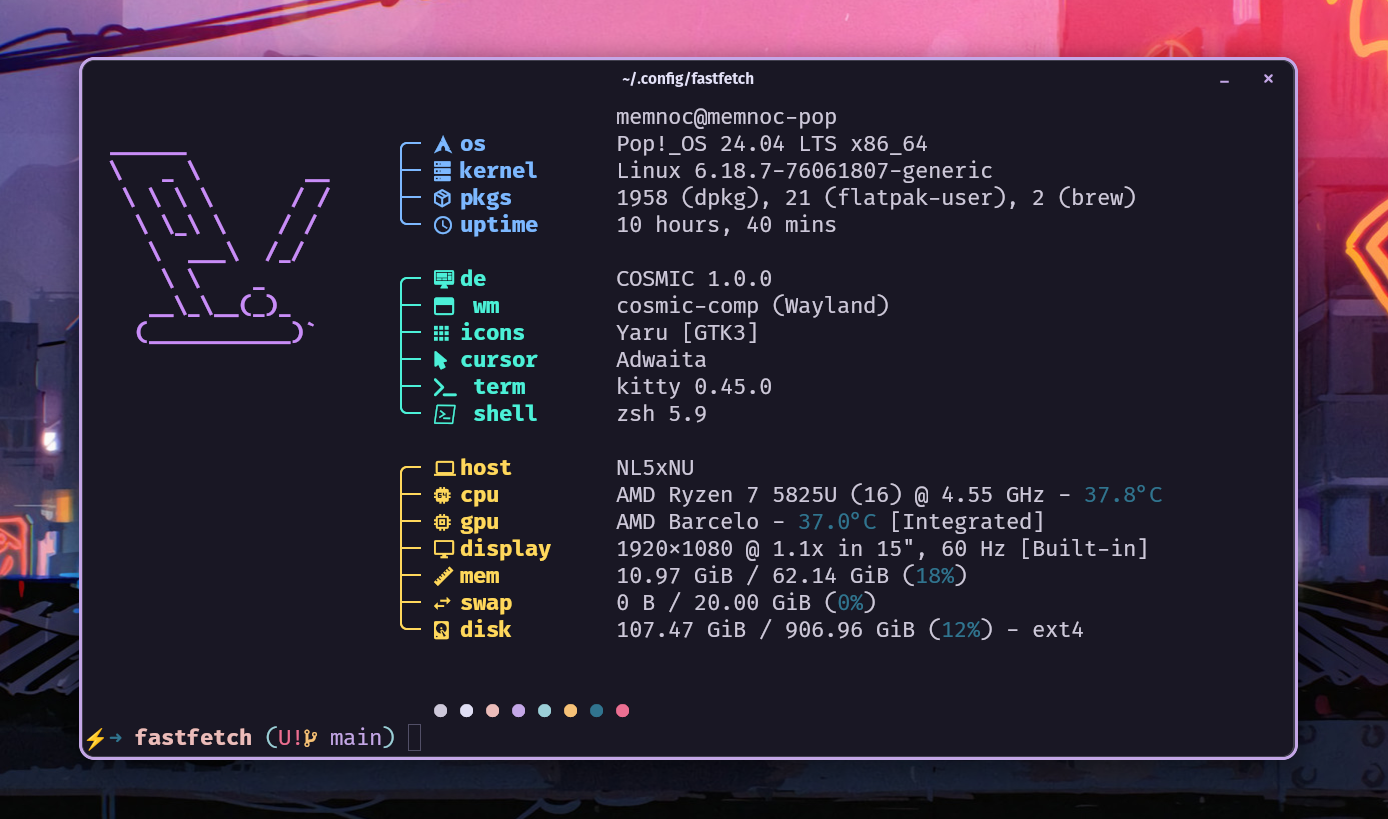
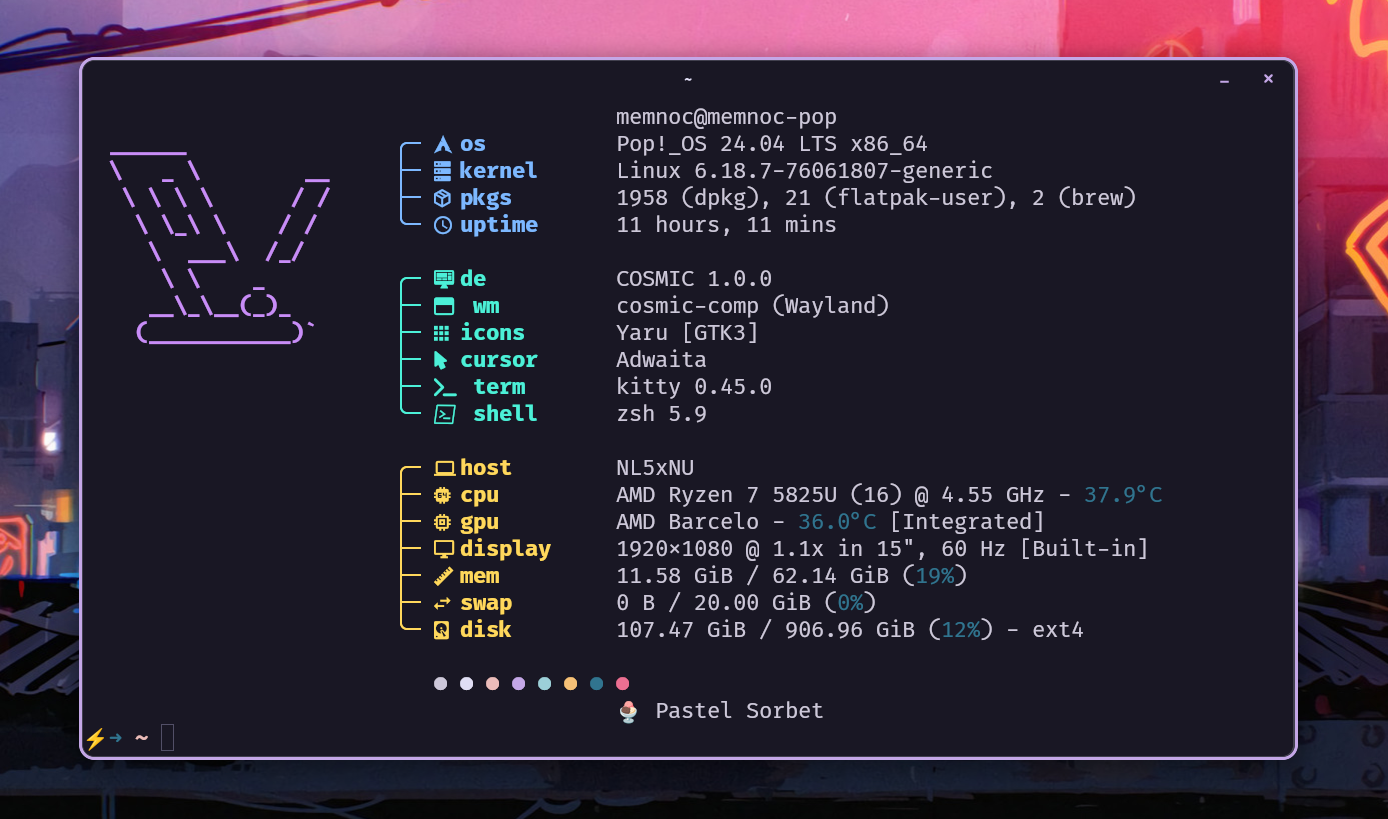
new screenshot and readme

diff --git a/README.md b/README.md
@@ -1,17 +1,73 @@
-# fastfetch config
+<div align="center">
 
-Minimal fastfetch configuration with tree-style grouped modules, Nerd Font icons, and color-coded sections.
+# 🍨 Pastel Sorbet
 
-![screenshot](assets/pastel-sorbet.png)
+**The Fastfetch Edition**
 
-## Install
+![Version](https://img.shields.io/badge/version-1.0.0-ff8596?style=flat-square)
+![License](https://img.shields.io/badge/license-MIT-6ef298?style=flat-square)
+![Flavor](https://img.shields.io/badge/flavor-sweet-ffd85c?style=flat-square)
+
+<p align="center">
+  <img src="assets/pastel-sorbet.png" alt="Pastel Sorbet Fastfetch Preview" width="800">
+</p>
+
+_A soft, pastel system fetch with rich purples and vibrant accents._
+
+Part of the Pastel Sorbet family: [Neovim](https://github.com/Memnoc/pastel_sorbet.nvim) | [Kitty](https://github.com/Memnoc/pastel-sorbet-kitty) | [Ghostty](https://github.com/Memnoc/pastel-sorbet-ghostty) | [Alacritty](https://github.com/Memnoc/pastel-sorbet-alacritty)
+
+</div>
+
+---
+
+<p align="center">
+  <a href="#installation">Installation</a> •
+  <a href="#features">Features</a> •
+  <a href="#palette">Palette</a> •
+  <a href="#variants">Variants</a>
+</p>
+
+---
+
+## Installation
 
 ```bash
 mkdir -p ~/.config/fastfetch
-cp config.jsonc ~/.config/fastfetch/config.jsonc
+cp config-pastel-sorbet.jsonc ~/.config/fastfetch/config.jsonc
 ```
 
-## Requirements
+### Requirements
 
 - [fastfetch](https://github.com/fastfetch-cli/fastfetch)
-- A [Nerd Font](https://www.nerdfonts.com/) set as your terminal font
+- A [Nerd Font](https://www.nerdfonts.com/) as your terminal font
+- Truecolor terminal support (`echo $COLORTERM` should return `truecolor` or `24bit`)
+
+## Features
+
+- Tree-style grouped modules with box-drawing characters
+- Nerd Font icons for every module
+- Color-coded sections mapped to the Pastel Sorbet palette
+- 24-bit truecolor throughout — no 256-color approximation
+- Branded `🍨 Pastel Sorbet` label in output
+
+## Palette
+
+| Section  | Color  | Hex       |
+| -------- | ------ | --------- |
+| Identity | pink   | `#ff8ed0` |
+| System   | blue   | `#7db8ff` |
+| Desktop  | cyan   | `#4cf0d8` |
+| Hardware | yellow | `#ffd85c` |
+| Network  | green  | `#6ef298` |
+| Logo     | purple | `#c88df7` |
+| Output   | fg_dim | `#cdc8da` |
+
+Full palette reference available in the [Neovim edition](https://github.com/Memnoc/pastel_sorbet.nvim).
+
+## Variants
+
+A default variant without the Pastel Sorbet palette is also included as `config.jsonc`, using standard ANSI colors.
+
+## License
+
+MIT
